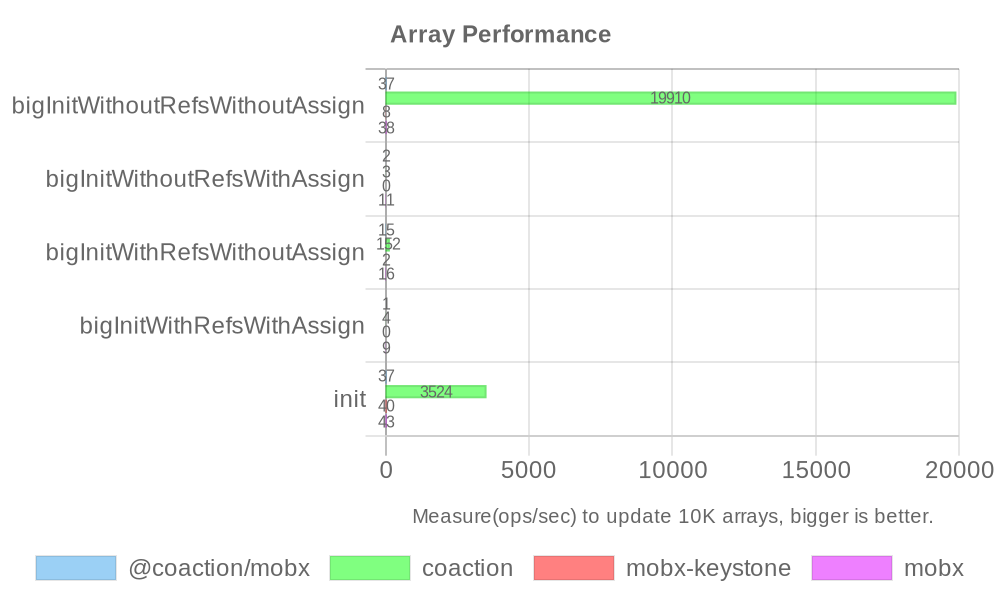
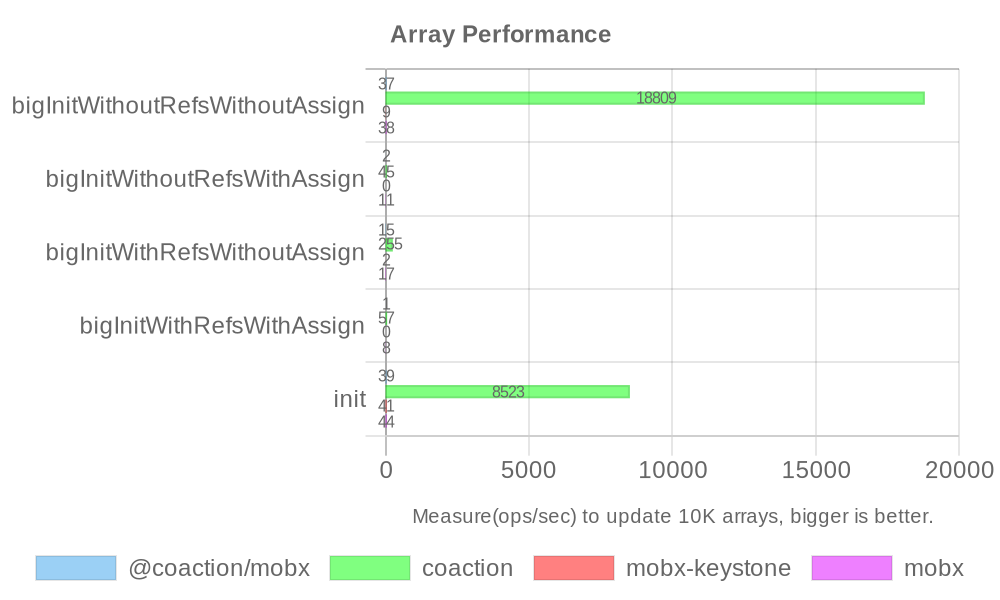
docs(readme): update

diff --git a/packages/coaction-mobx/test/benchmark/coaction.ts b/packages/coaction-mobx/test/benchmark/coaction.ts
@@ -34,12 +34,13 @@ export const createCoactionStore = () => {
       },
 
       bigInitWithoutRefsWithAssign() {
+        const todos = [];
+        for (let i = 0; i < 10_000; i++) {
+          todos.push({ text: '', done: false });
+        }
+        const newTodos = [...this.todos, ...todos];
         set(() => {
-          const todos = [];
-          for (let i = 0; i < 10_000; i++) {
-            todos.push({ text: '', done: false });
-          }
-          this.todos = [...this.todos, ...todos];
+          this.todos = newTodos;
         });
       },
 
@@ -55,15 +56,18 @@ export const createCoactionStore = () => {
       },
 
       bigInitWithRefsWithAssign() {
+        const category = { id: this.categories.length, text: 'category' };
         set(() => {
-          const category = { id: this.categories.length, text: 'category' };
           this.categories.push(category);
+        });
 
-          const todos = [];
-          for (let i = 0; i < 10_000; i++) {
-            todos.push({ text: '', done: false, category });
-          }
-          this.todos = [...this.todos, ...todos];
+        const todos = [];
+        for (let i = 0; i < 10_000; i++) {
+          todos.push({ text: '', done: false, category });
+        }
+        const newTodos = [...this.todos, ...todos];
+        set(() => {
+          this.todos = newTodos;
         });
       },
 

diff --git a/README.md b/README.md
@@ -92,30 +92,30 @@ sequenceDiagram
 
 Measure(ops/sec) to update 10K arrays, bigger is better([view source](https://github.com/unadlib/mutative/blob/main/test/performance/benchmark.ts)).
 
-| Library        | Test Name                       | Ops/sec |
+| Library        | Test Case                       | Ops/sec |
 | -------------- | ------------------------------- | ------- |
-| @coaction/mobx | bigInitWithoutRefsWithoutAssign | 37.07   |
-| mobx           | bigInitWithoutRefsWithoutAssign | 37.50   |
-| **coaction**   | bigInitWithoutRefsWithoutAssign | 19,910  |
-| mobx-keystone  | bigInitWithoutRefsWithoutAssign | 7.88    |
-| @coaction/mobx | bigInitWithoutRefsWithAssign    | 1.53    |
-| mobx           | bigInitWithoutRefsWithAssign    | 10.77   |
-| **coaction**   | bigInitWithoutRefsWithAssign    | 3.01    |
+| @coaction/mobx | bigInitWithoutRefsWithoutAssign | 37.44   |
+| mobx           | bigInitWithoutRefsWithoutAssign | 37.67   |
+| coaction       | bigInitWithoutRefsWithoutAssign | 18,809  |
+| mobx-keystone  | bigInitWithoutRefsWithoutAssign | 8.53    |
+| @coaction/mobx | bigInitWithoutRefsWithAssign    | 1.54    |
+| mobx           | bigInitWithoutRefsWithAssign    | 10.78   |
+| coaction       | bigInitWithoutRefsWithAssign    | 45.20   |
 | mobx-keystone  | bigInitWithoutRefsWithAssign    | 0.13    |
-| @coaction/mobx | bigInitWithRefsWithoutAssign    | 14.66   |
-| mobx           | bigInitWithRefsWithoutAssign    | 16.11   |
-| **coaction**   | bigInitWithRefsWithoutAssign    | 152     |
-| mobx-keystone  | bigInitWithRefsWithoutAssign    | 2.44    |
-| @coaction/mobx | bigInitWithRefsWithAssign       | 0.98    |
-| mobx           | bigInitWithRefsWithAssign       | 8.81    |
-| **coaction**   | bigInitWithRefsWithAssign       | 3.83    |
+| @coaction/mobx | bigInitWithRefsWithoutAssign    | 14.99   |
+| mobx           | bigInitWithRefsWithoutAssign    | 16.68   |
+| coaction       | bigInitWithRefsWithoutAssign    | 255     |
+| mobx-keystone  | bigInitWithRefsWithoutAssign    | 2.35    |
+| @coaction/mobx | bigInitWithRefsWithAssign       | 1.01    |
+| mobx           | bigInitWithRefsWithAssign       | 7.71    |
+| coaction       | bigInitWithRefsWithAssign       | 57.22   |
 | mobx-keystone  | bigInitWithRefsWithAssign       | 0.11    |
-| @coaction/mobx | init                            | 37.34   |
-| mobx           | init                            | 42.98   |
-| **coaction**   | init                            | 3,524   |
-| mobx-keystone  | init                            | 40.48   |
+| @coaction/mobx | init                            | 38.57   |
+| mobx           | init                            | 43.88   |
+| coaction       | init                            | 8,523   |
+| mobx-keystone  | init                            | 41.19   |
 
-This table benchmarks various state management libraries on large initialization tasks. Coaction stands out dramatically, performing at least hundreds of times faster in certain scenarios. For example, in the "bigInitWithoutRefsWithoutAssign" test, Coaction achieves about 19,910 ops/sec compared to Mobx’s 37.5 ops/sec—over 500 times faster. Similarly, in the "init" test, Coaction reaches around 3,524 ops/sec versus Mobx's 42.98 ops/sec—an increase of roughly 80 times. These results highlight Coaction's exceptional efficiency in handling large-scale data initialization.
+This table benchmarks various state management libraries on large initialization tasks. Coaction stands out dramatically, performing at least hundreds of times faster in certain scenarios. For example, in the “bigInitWithoutRefsWithoutAssign” test, Coaction achieves 18,809 ops/sec compared to MobX’s 37.67 ops/sec—over 500 times faster. Similarly, in the “init” test, Coaction reaches 8,523 ops/sec versus MobX’s 43.88 ops/sec—an increase of roughly 200 times. Additionally, Coaction consistently outperforms other libraries across various initialization scenarios, showcasing its exceptional efficiency in handling large-scale data initialization. These results highlight Coaction’s superior performance and make it a highly effective solution for managing complex state in modern front-end applications.
 
 > We will also provide more complete benchmarking.
 
